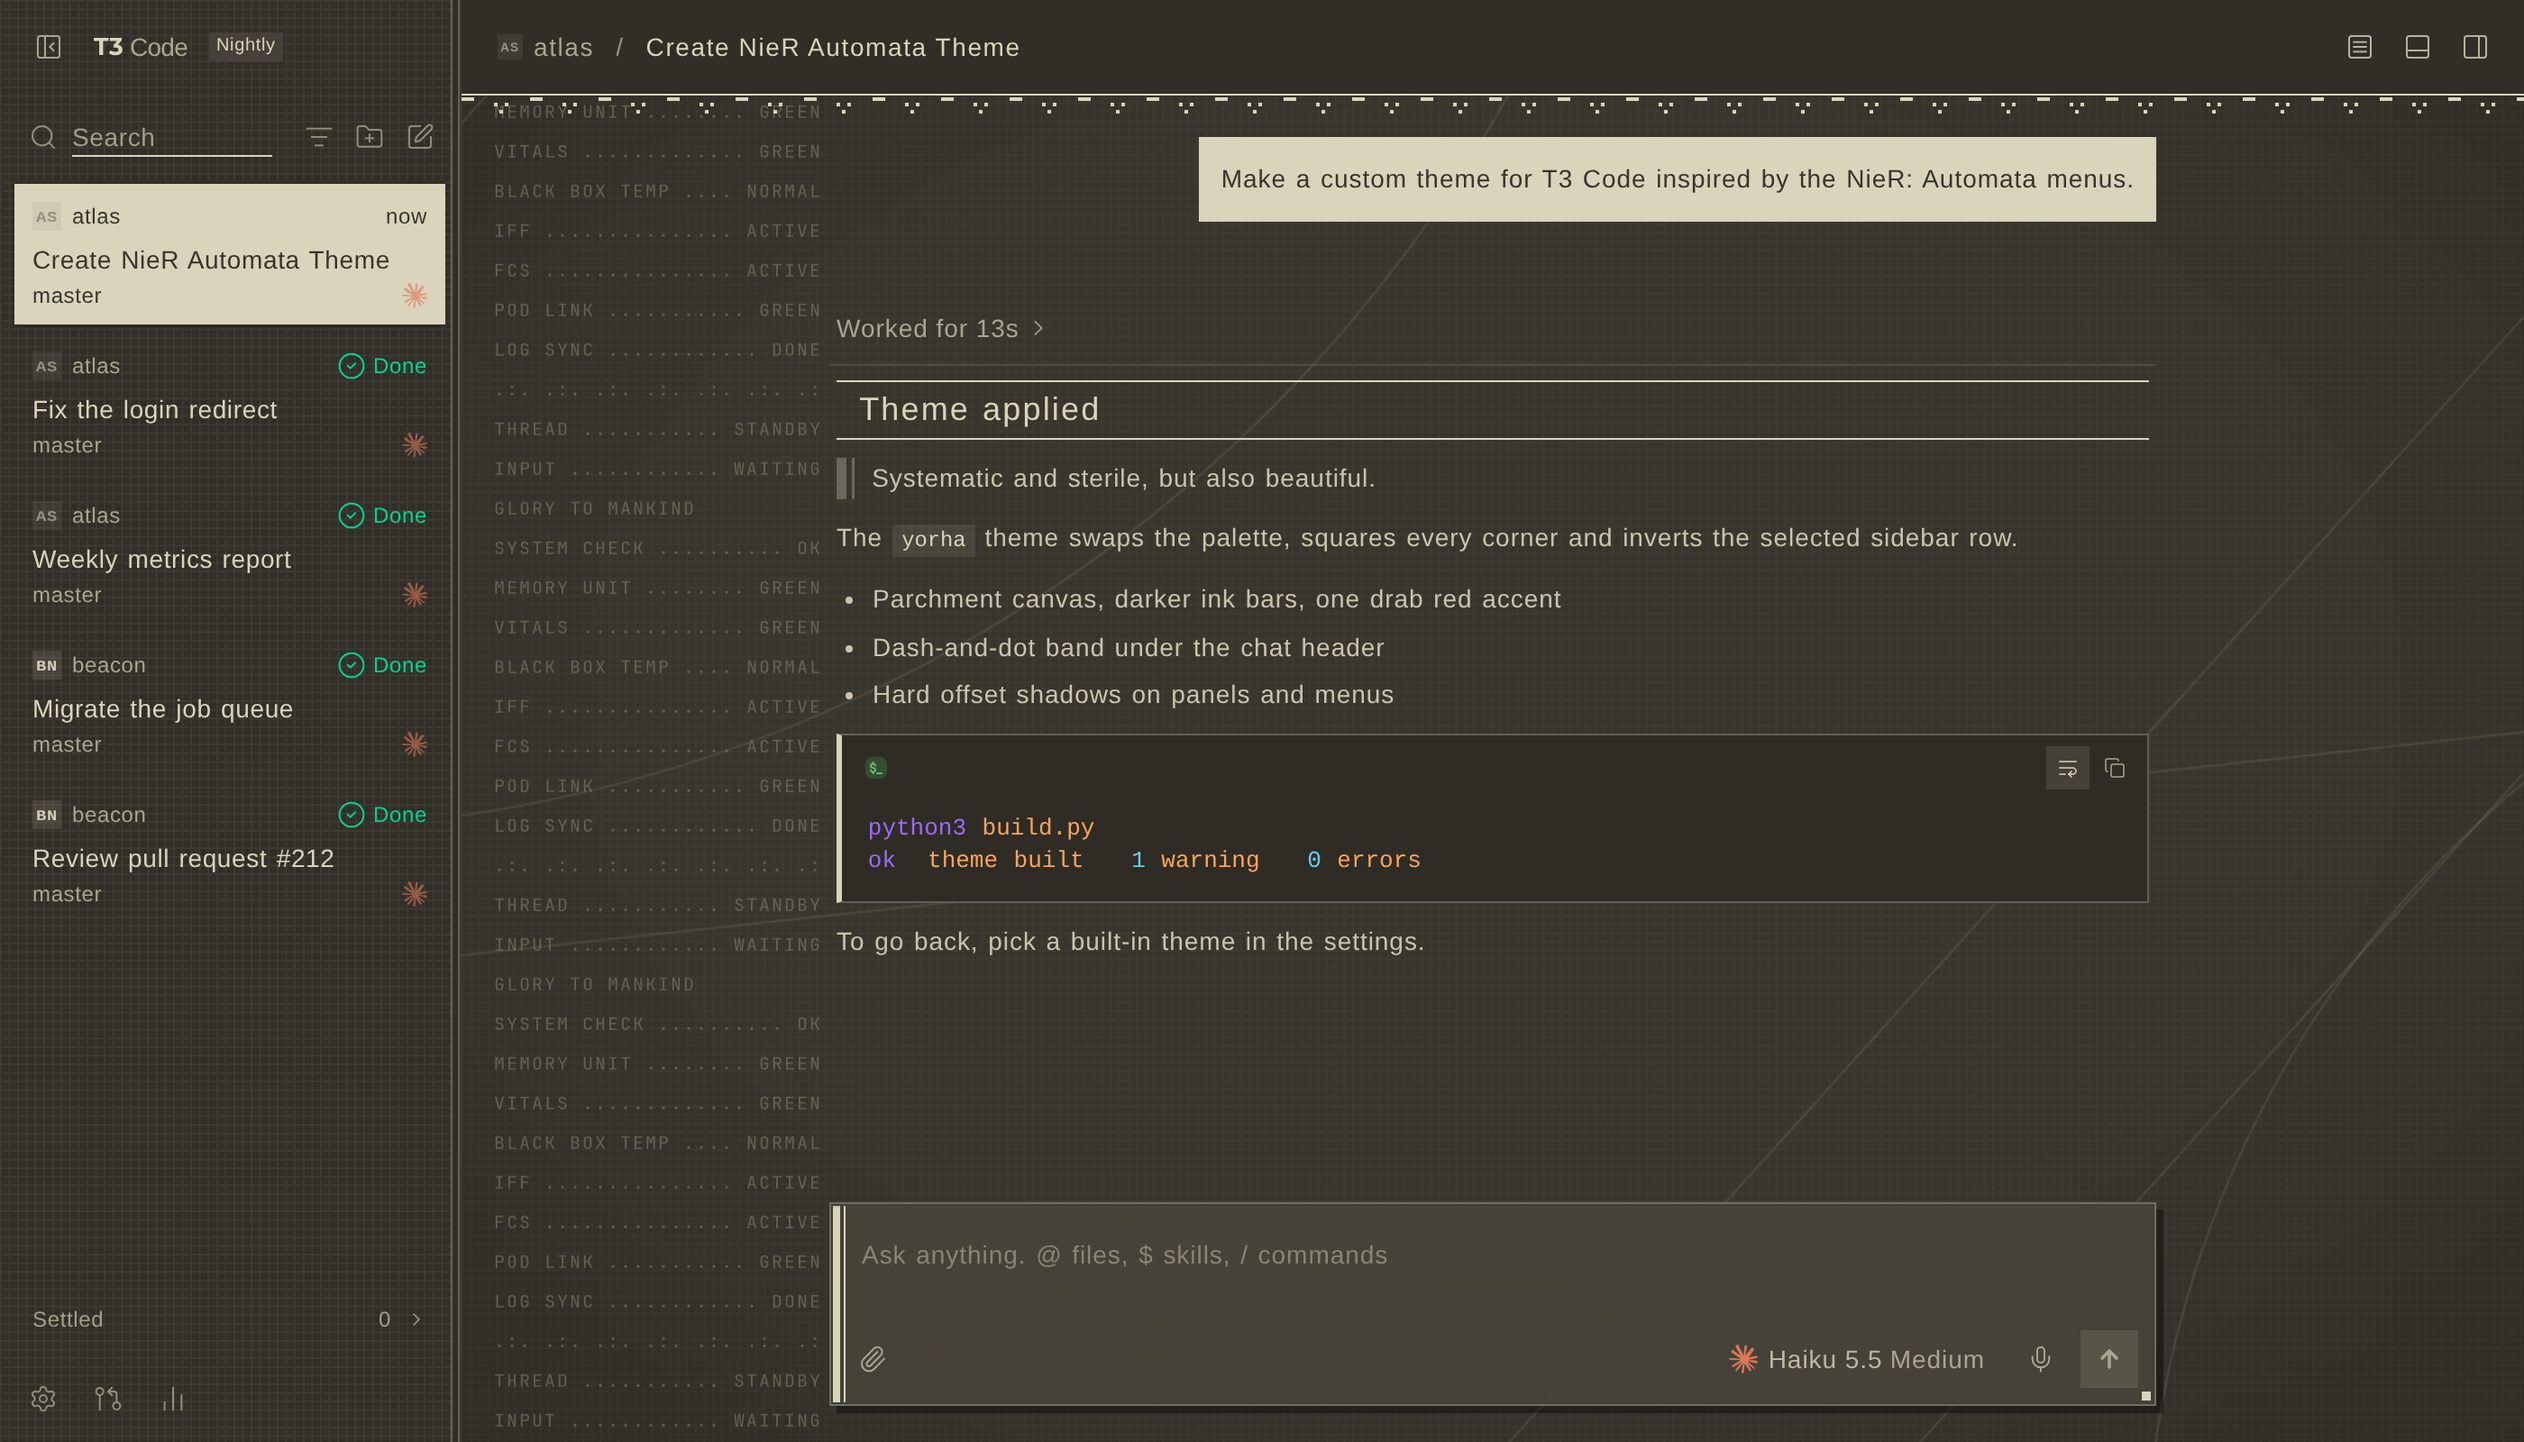
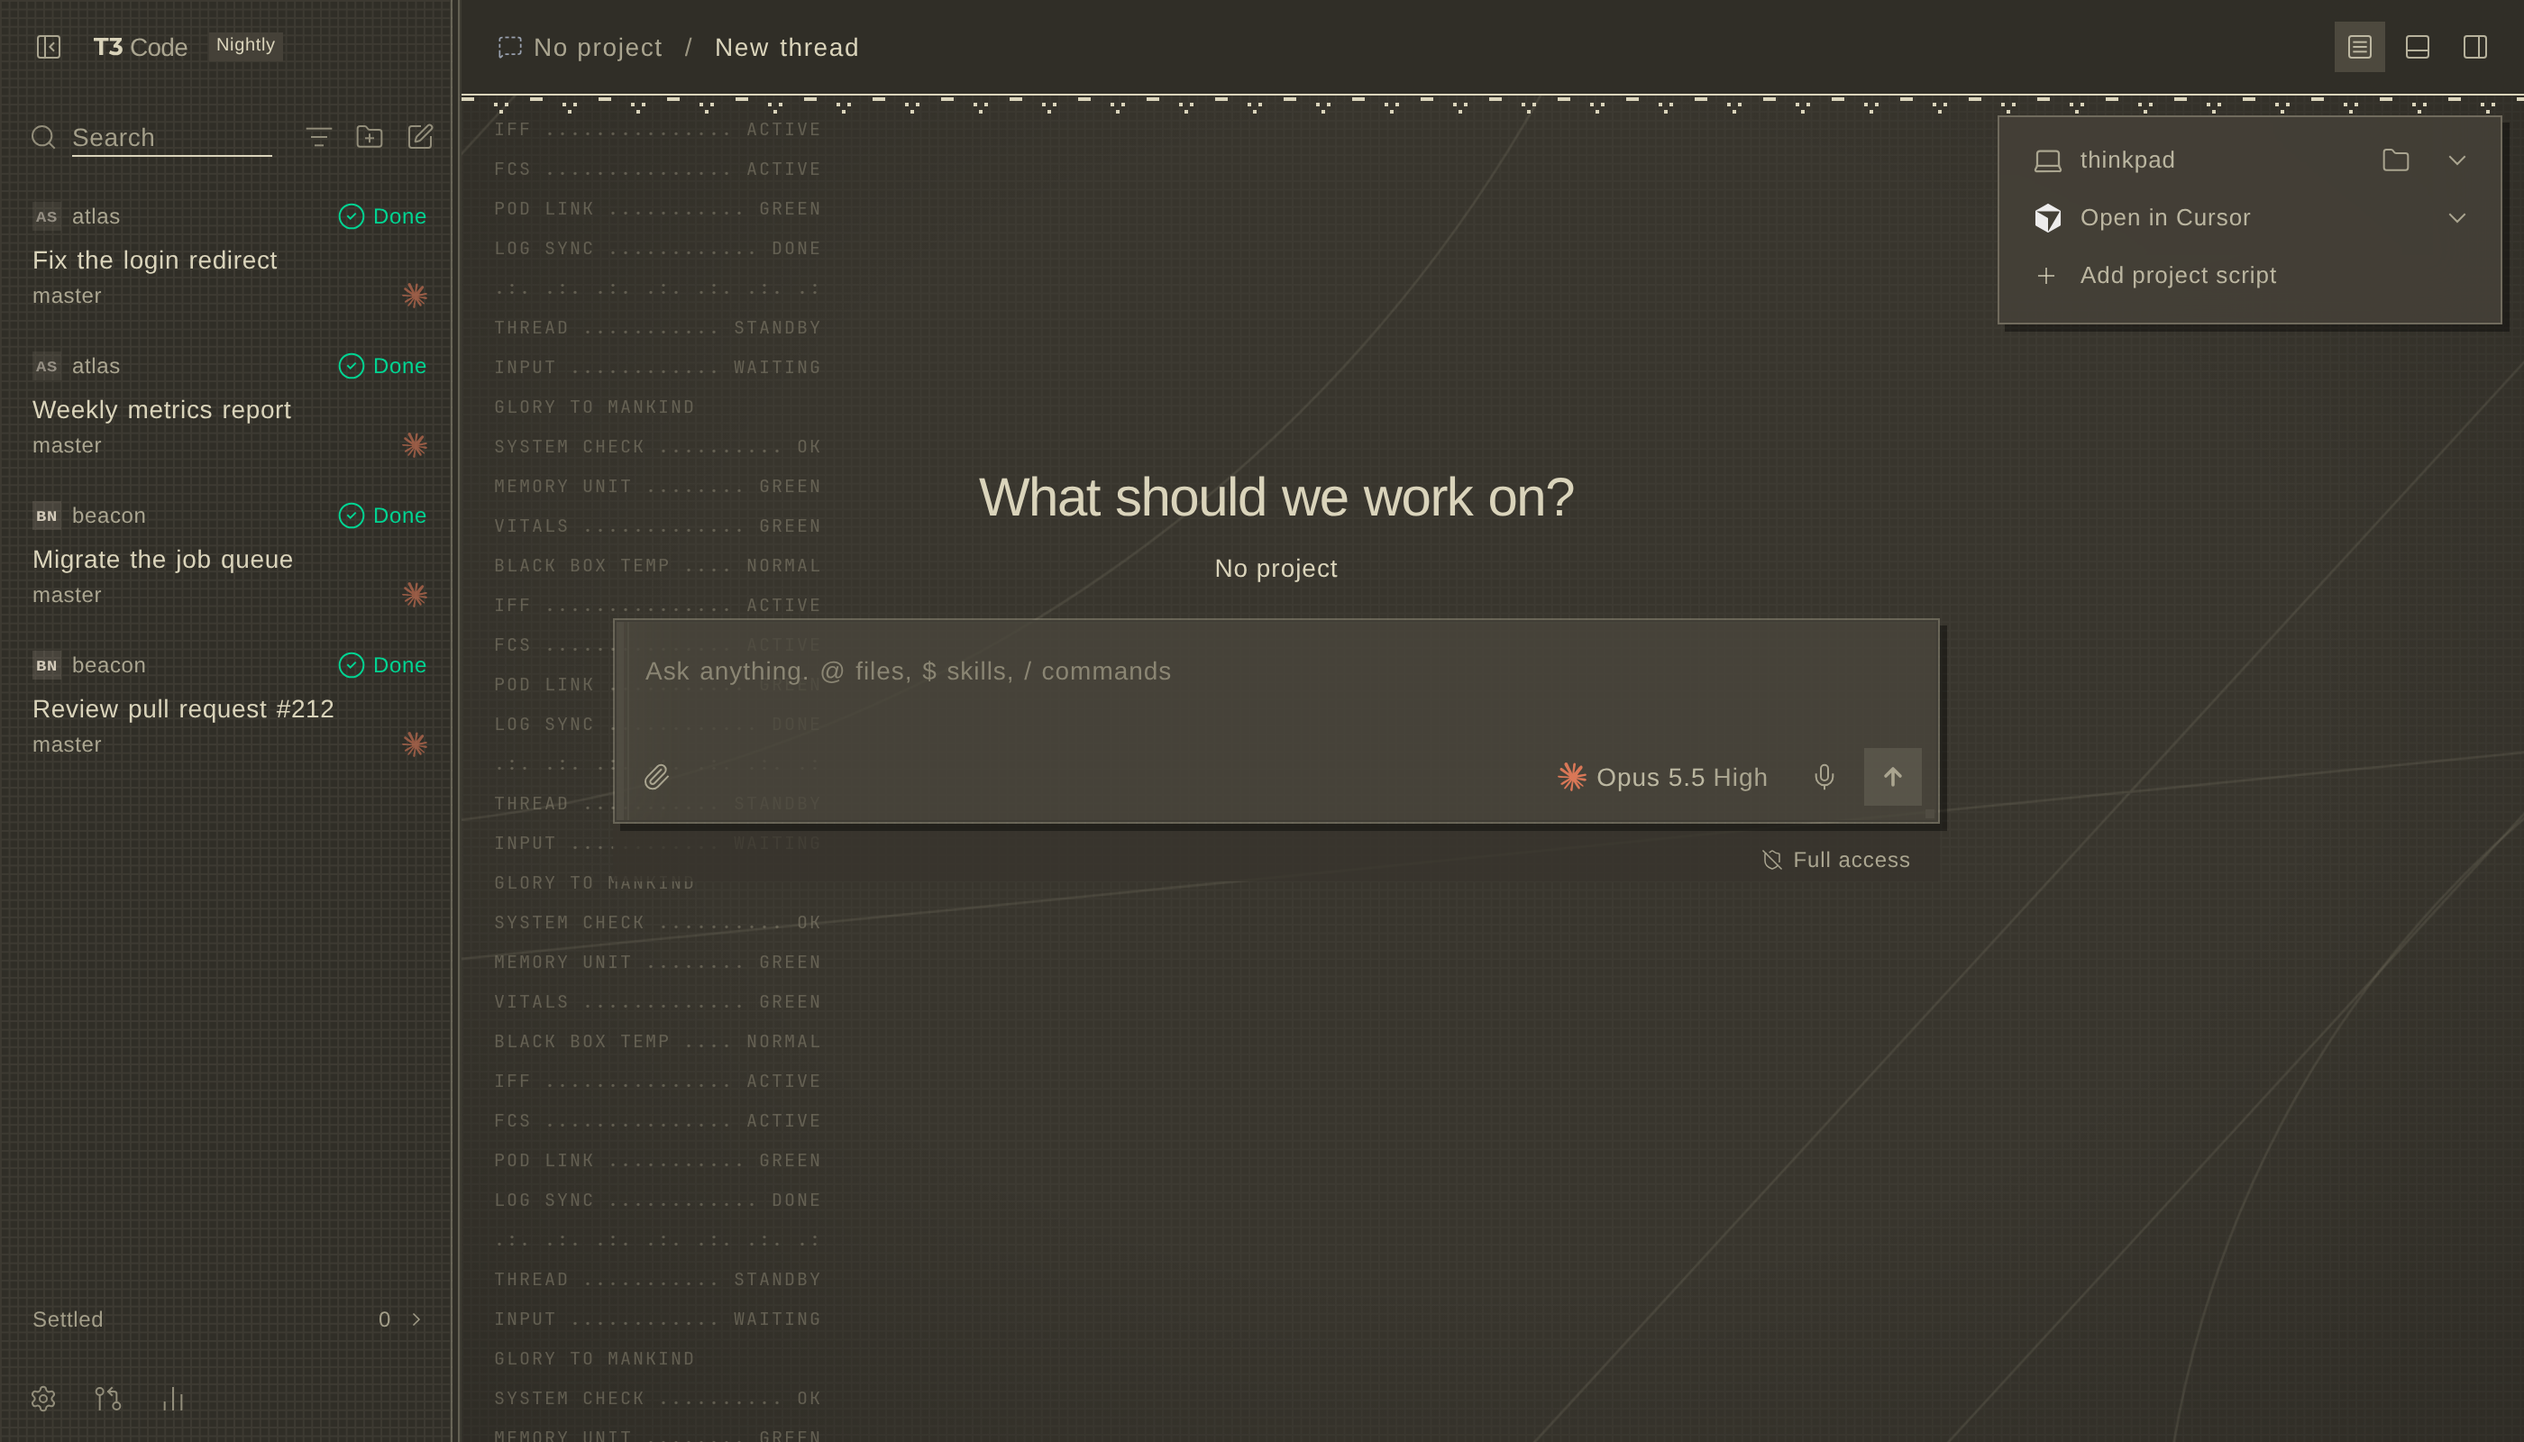
Show the chat ornaments on an empty thread too
On the empty-thread screen a canvas-coloured layer inside the conversation
area hid the grid, vignette, linework and system log. Its direct children are
now transparent, since the area itself paints the canvas. The screenshots now
show that empty chat with Opus 5.5 High selected.

diff --git a/preview/dark.html b/preview/dark.html
@@ -36,6 +36,8 @@ svg.lucide{stroke-width:1.5;stroke-linecap:square;stroke-linejoin:miter}
 
 /* chat area: fine grid, screen vignette, drifting linework and a scrolling system log */
 [data-workspace-area="conversation"]{isolation:isolate;overflow:clip;background-image:radial-gradient(ellipse at 50% 45%,transparent 55%,var(--n-vig) 130%),linear-gradient(var(--n-grid) 1px,transparent 1px),linear-gradient(90deg,var(--n-grid) 1px,transparent 1px)!important;background-size:100% 100%,.3rem .3rem,.3rem .3rem!important}
+/* the empty-thread screen covers the area with an opaque canvas-coloured child; the area itself already paints the canvas */
+[data-workspace-area="conversation"]>*{background-color:transparent!important}
 [data-workspace-area="conversation"]::before{content:"";position:absolute;inset:-30%;z-index:-1;pointer-events:none;background:var(--n-art) center/cover no-repeat;will-change:transform;animation:n-drift 70s ease-in-out infinite alternate}
 [data-workspace-area="conversation"]::after{content:"";position:absolute;left:18px;top:0;width:200px;height:calc(100% + 264px);z-index:-1;pointer-events:none;background:var(--n-log) repeat-y;will-change:transform;animation:n-log 44s linear infinite}
 [data-chat-header]{letter-spacing:.05em}

diff --git a/preview/light.html b/preview/light.html
@@ -36,6 +36,8 @@ svg.lucide{stroke-width:1.5;stroke-linecap:square;stroke-linejoin:miter}
 
 /* chat area: fine grid, screen vignette, drifting linework and a scrolling system log */
 [data-workspace-area="conversation"]{isolation:isolate;overflow:clip;background-image:radial-gradient(ellipse at 50% 45%,transparent 55%,var(--n-vig) 130%),linear-gradient(var(--n-grid) 1px,transparent 1px),linear-gradient(90deg,var(--n-grid) 1px,transparent 1px)!important;background-size:100% 100%,.3rem .3rem,.3rem .3rem!important}
+/* the empty-thread screen covers the area with an opaque canvas-coloured child; the area itself already paints the canvas */
+[data-workspace-area="conversation"]>*{background-color:transparent!important}
 [data-workspace-area="conversation"]::before{content:"";position:absolute;inset:-30%;z-index:-1;pointer-events:none;background:var(--n-art) center/cover no-repeat;will-change:transform;animation:n-drift 70s ease-in-out infinite alternate}
 [data-workspace-area="conversation"]::after{content:"";position:absolute;left:18px;top:0;width:200px;height:calc(100% + 264px);z-index:-1;pointer-events:none;background:var(--n-log) repeat-y;will-change:transform;animation:n-log 44s linear infinite}
 [data-chat-header]{letter-spacing:.05em}

diff --git a/yorha.css b/yorha.css
@@ -11,6 +11,8 @@ svg.lucide{stroke-width:1.5;stroke-linecap:square;stroke-linejoin:miter}
 
 /* chat area: fine grid, screen vignette, drifting linework and a scrolling system log */
 [data-workspace-area="conversation"]{isolation:isolate;overflow:clip;background-image:radial-gradient(ellipse at 50% 45%,transparent 55%,var(--n-vig) 130%),linear-gradient(var(--n-grid) 1px,transparent 1px),linear-gradient(90deg,var(--n-grid) 1px,transparent 1px)!important;background-size:100% 100%,.3rem .3rem,.3rem .3rem!important}
+/* the empty-thread screen covers the area with an opaque canvas-coloured child; the area itself already paints the canvas */
+[data-workspace-area="conversation"]>*{background-color:transparent!important}
 [data-workspace-area="conversation"]::before{content:"";position:absolute;inset:-30%;z-index:-1;pointer-events:none;background:var(--n-art) center/cover no-repeat;will-change:transform;animation:n-drift 70s ease-in-out infinite alternate}
 [data-workspace-area="conversation"]::after{content:"";position:absolute;left:18px;top:0;width:200px;height:calc(100% + 264px);z-index:-1;pointer-events:none;background:var(--n-log) repeat-y;will-change:transform;animation:n-log 44s linear infinite}
 [data-chat-header]{letter-spacing:.05em}

diff --git a/README.md b/README.md
@@ -7,7 +7,7 @@ It has a light variant based on the game's menu and a dark variant built from th
 
 ![Dark variant](preview/dark.png)
 
-Screenshots of the T3 Code nightly of November 2026 with the theme installed, taken from a demo project.
+Screenshots of an empty chat in the T3 Code nightly of November 2026, with the theme installed.
 
 ## What it changes
 
